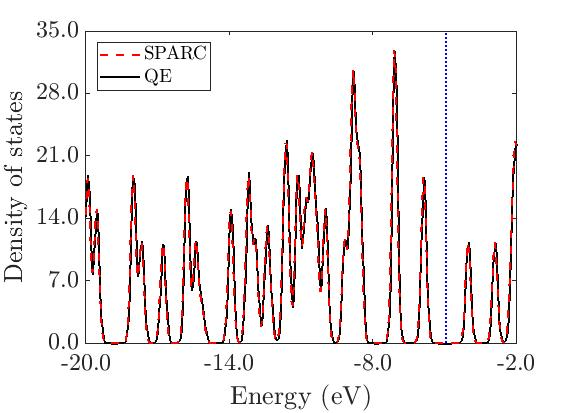
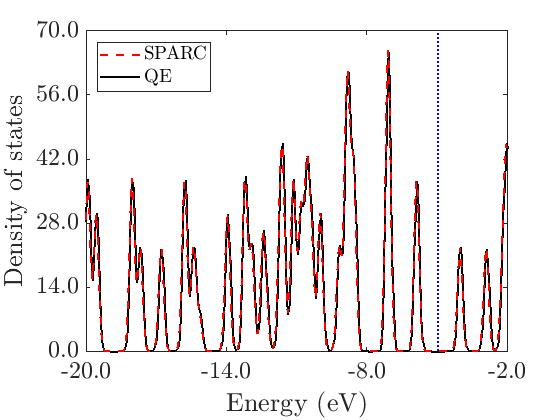
DOS

Changed region(s): [[0.0, 0.0291, 0.9411, 0.9007], [0.3946, 0.9298, 0.6679, 1.0]]

diff --git a/test_results_accuracy/C60/plotDOS.m b/test_results_accuracy/C60/plotDOS.m
@@ -7,17 +7,17 @@ curve1 = plot(qeE, qeDOS, '-k', 'linewidth',1.5);
 hold on;
 curve2 = plot(sparcE, sparcDOS, '--r', 'linewidth',1.5);
 hold on;
-fermiLevel = [-0.181403*27.2113897,0.00001;-0.181403*27.2113897,35]; % at the middle of LUMO and HOMO
+fermiLevel = [-0.181403*27.2113897,0.00001;-0.181403*27.2113897,70]; % at the middle of LUMO and HOMO
 % fermiLevel = [-1.6421052007E-01*27.2113897,0.00001;-1.6421052007E-01*27.2113897,35];
 % fermiLevelHOMO = [-2.154790656337E-01*27.2113897,0.00001;-2.154790656337E-01*27.2113897,35];
 % fermiLevelQE = [(-1.214139273819722e-1 + energyDiff)*27.2113897,0.00001;(-1.214139273819722e-1 + energyDiff)*27.2113897,35];
 curve3 = plot(fermiLevel(:,1),fermiLevel(:,2),':b', 'linewidth',1.5);
 % curve4 = plot(fermiLevelHOMO(:,1),fermiLevelHOMO(:,2),':o', 'linewidth',1.5);
 % curve5 = plot(fermiLevelQE(:,1),fermiLevelQE(:,2),':r', 'linewidth',1.5);
-axis([-20 -2 0 35]);
+axis([-20 -2 0 70]);
 ylabel('Density of states','Interpreter','latex');
-yticks([0 7 14 21 28 35]);
-yticklabels({'0.0','7.0','14.0','21.0','28.0','35.0'});
+yticks([0 14 28 42 56 70]);
+yticklabels({'0.0','14.0','28.0','42.0','56.0','70.0'});
 xticks([-20 -14 -8 -2]);
 xticklabels({'-20.0', '-14.0', '-8.0', '-2.0'});
 xlabel('Energy (eV)','Interpreter','latex');

diff --git a/test_results_accuracy/TiO2/plotDOS.m b/test_results_accuracy/TiO2/plotDOS.m
@@ -11,10 +11,10 @@ fermiLevel = [-0.25078*27.2113897,0.00001;-0.25078*27.2113897,54]; % at the midd
 % fermiLevelQE = [1.512299078679678e-1*27.2113897 + shift,0.00001;1.512299078679678e-1*27.2113897 + shift,24];
 curve3 = plot(fermiLevel(:,1),fermiLevel(:,2),':b', 'linewidth',1.5);
 % curve4 = plot(fermiLevelQE(:,1),fermiLevelQE(:,2),':r', 'linewidth',1.5);
-axis([-33 -3 0 24]);
+axis([-33 -3 0 48]);
 ylabel('Density of states','Interpreter','latex');
-yticks([0 6 12 18 24]);
-yticklabels({'0.0','6.0','12.0','18.0','24.0'});
+yticks([0 12 24 36 48]);
+yticklabels({'0.0','12.0','24.0','36.0','48.0'});
 xlabel('Energy (eV)','Interpreter','latex');
 xticks([-33 -27 -21 -15 -9 -3]);
 xticklabels({'-33.0','-27.0','-21.0','-15.0','-9.0','-3.0'});

diff --git a/test_results_accuracy/C60/eig2DOS.m b/test_results_accuracy/C60/eig2DOS.m
@@ -1,6 +1,7 @@
 function [DOS, E] = eig2DOS(lambda_nk, N, sigma)
     % EIG2DOS plots density of states (DOS) based on the eigenvalues
-    % DOE(e) = 2 \sum_{n=1}^{Ns} delta(lambda(n) -  e)
+    % DOS(e) = 2 \fint_{BZ}\sum_{n=1}^{Ns} delta(lambda(n) -  e)
+    % The input sigma is \sqrt 2*\sigma
     %
     % @param lambda Eigenvalues
     % @param n      Number of points in E
@@ -29,7 +30,7 @@ function [DOS, E] = eig2DOS(lambda_nk, N, sigma)
     
     E = linspace(Emin, Emax, N);
     
-    DOS = sum(gauss_distribution(colminusrow(E, lambda), sigma), 2)/N_k;
+    DOS = 2 * sum(gauss_distribution(colminusrow(E, lambda), sigma), 2)/N_k;
     
     end
     

diff --git a/test_results_accuracy/TiO2/eig2DOS.m b/test_results_accuracy/TiO2/eig2DOS.m
@@ -1,6 +1,7 @@
 function [DOS, E] = eig2DOS(lambda_nk, N, sigma)
     % EIG2DOS plots density of states (DOS) based on the eigenvalues
-    % DOE(e) = 2 \sum_{n=1}^{Ns} delta(lambda(n) -  e)
+    % DOS(e) = 2 \fint_{BZ}\sum_{n=1}^{Ns} delta(lambda(n) -  e)
+    % The input sigma is \sqrt 2*\sigma
     %
     % @param lambda Eigenvalues
     % @param n      Number of points in E
@@ -29,7 +30,7 @@ function [DOS, E] = eig2DOS(lambda_nk, N, sigma)
     
     E = linspace(Emin, Emax, N);
     
-    DOS = sum(gauss_distribution(colminusrow(E, lambda), sigma), 2)/N_k;
+    DOS = 2 * sum(gauss_distribution(colminusrow(E, lambda), sigma), 2)/N_k;
     
     end
     
